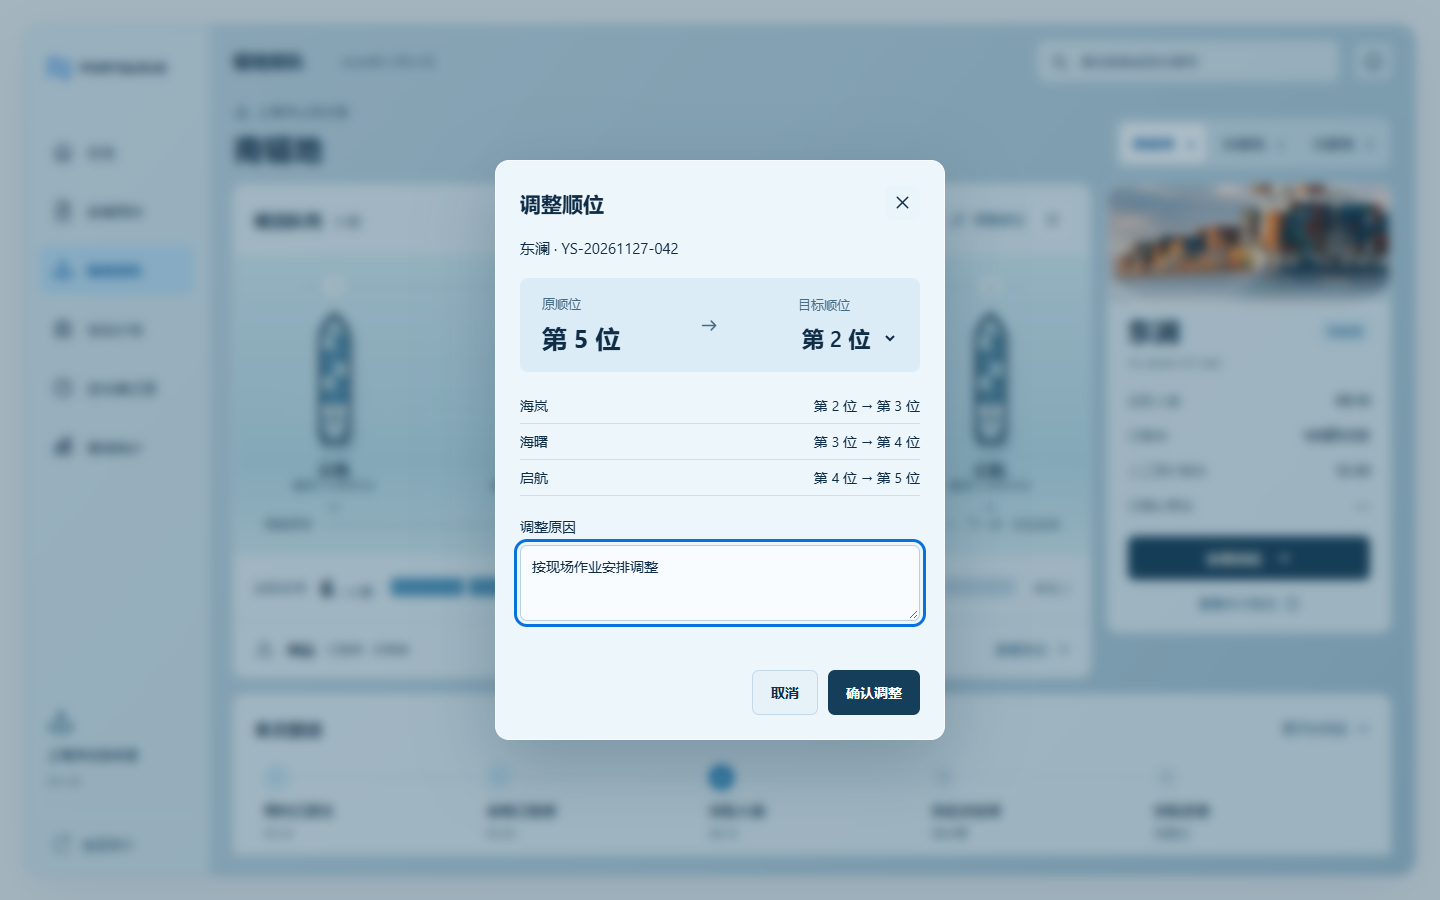
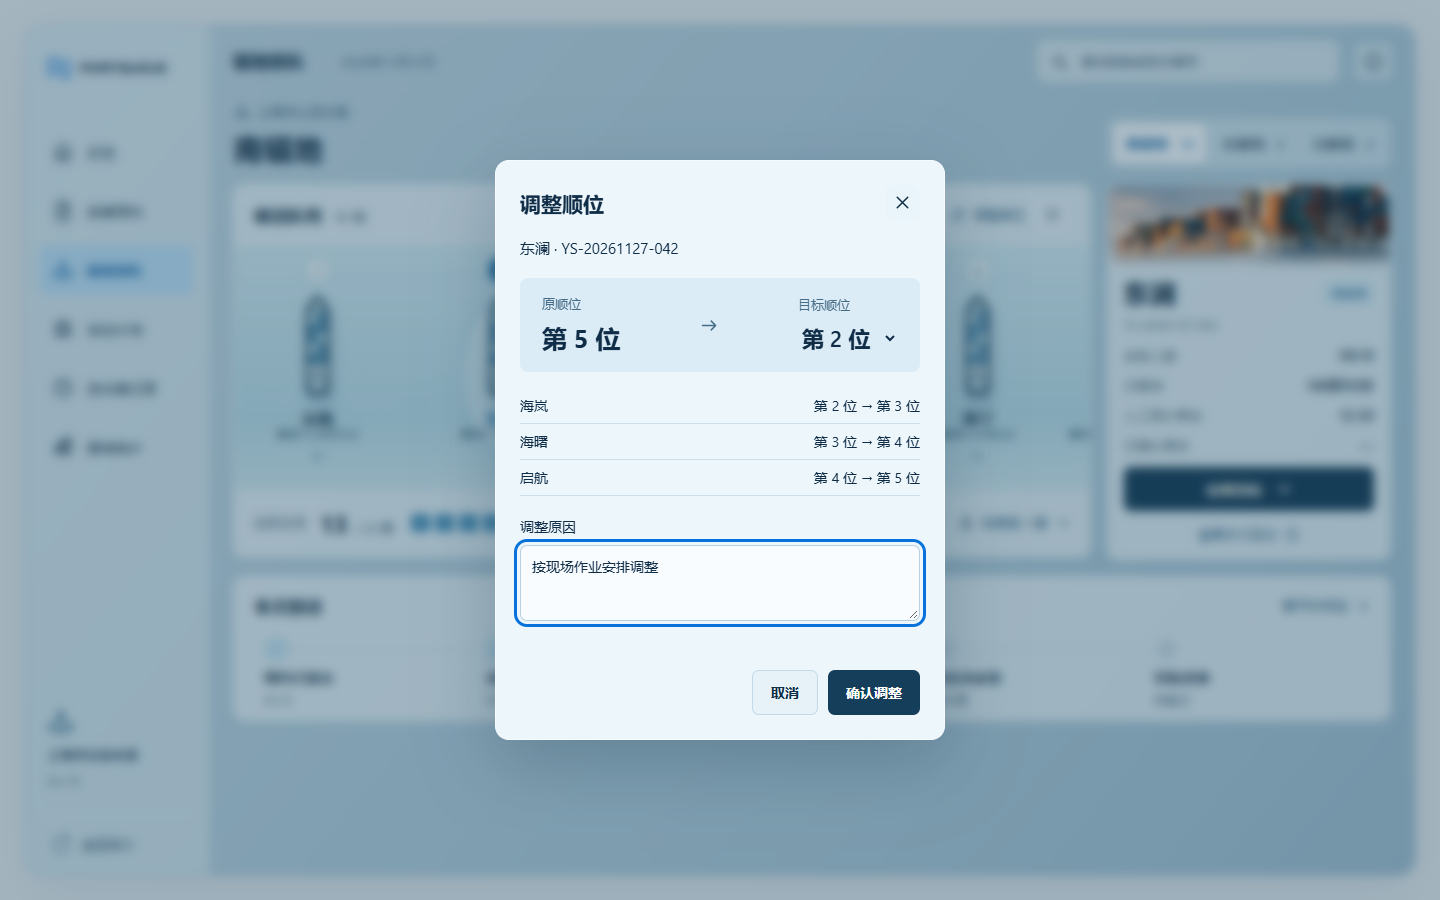
修正锚地原型完整队列与短屏布局并明确第四阶段验收

diff --git a/docs/design/anchorage-prototype/prototype.js b/docs/design/anchorage-prototype/prototype.js
@@ -35,11 +35,15 @@ const ships = [
   { id: 'haichen', name: '海辰', call: 'YS-20261127-035', enter: '05:45', estimate: '', confirmed: '', status: '已撤销', hue: '#7c9aac' },
   { id: 'xingzhou', name: '星舟', call: 'YS-20261127-044', enter: '09:00', estimate: '14:00', confirmed: '', status: '待安排', hue: '#3e819d' },
   { id: 'haiyue', name: '海岳', call: 'YS-20261127-046', enter: '09:20', estimate: '15:00', confirmed: '', status: '待安排', hue: '#2a648e' },
+  ...['海宁','明航','嘉远','舟桥','润泽','海丰','启辰','海川','景航','顺达','辰海','承远','宁港','华星','东航'].map((name,index) => ({
+    id:`extra-${index}`,name,call:`YS-20261127-${50+index}`,enter:`0${7+Math.floor(index/8)}:${String(index%8*7).padStart(2,'0')}`,
+    estimate: index%3===0 ? '15:30' : '',confirmed:'',status:'待安排',hue:'#3b7da9',
+  })),
 ];
 const initialAreas = {
-  south: { name: '南锚地', capacity: 8, order: ['yuanfan','hailan','haishu','qihang','donglan'], cancelled: ['haichen'] },
-  east: { name: '东锚地', capacity: 6, order: ['xingzhou','haiyue'], cancelled: [] },
-  north: { name: '北锚地', capacity: 6, order: [], cancelled: [] },
+  south: { name: '南锚地', capacity: 20, order: ['yuanfan','hailan','haishu','qihang','donglan',...Array.from({length:7},(_,i)=>`extra-${i}`)], cancelled: ['haichen'] },
+  east: { name: '东锚地', capacity: 12, order: ['xingzhou','haiyue',...Array.from({length:4},(_,i)=>`extra-${i+7}`)], cancelled: [] },
+  north: { name: '北锚地', capacity: 8, order: Array.from({length:4},(_,i)=>`extra-${i+11}`), cancelled: [] },
 };
 let areas = structuredClone(initialAreas);
 let areaKey = 'south';
@@ -70,6 +74,7 @@ function reposition(order, id, destination) {
 }
 function renderQueue() {
   const members = area().order;
+  $('queue-vessels').style.setProperty('--slots', Math.max(5,members.length));
   $('queue-vessels').innerHTML = members.map((id, index) => {
     const ship = shipById(id);
     return `<div class="vessel${id === selectedId ? ' selected' : ''}" data-id="${id}" role="listitem" style="--slot:${index}"><span class="rank">${index+1}</span><button class="vessel-select" data-select="${id}" aria-label="选择${ship.name}，第${index+1}位"><span>${boatArt(ship)}</span><strong class="ship-name">${ship.name}</strong><span class="ship-wait">等待 ${waiting(ship)}</span></button><button class="drag-handle" data-drag="${id}" aria-label="调整${ship.name}顺位" title="拖动调整顺位，也可按回车选择位置">${icon('grip')}</button></div>`;
@@ -77,24 +82,23 @@ function renderQueue() {
   $('queue-count').textContent = `${members.length} 艘`;
   $('empty-state').hidden = members.length > 0;
   document.querySelector('.queue-path').hidden = !members.length;
-  document.querySelector('.sea-caption').hidden = !members.length;
   const presence = members.length + area().cancelled.length;
   $('presence').innerHTML = `${presence} <small>/ ${area().capacity} 艘</small>`;
   $('available').textContent = `余位 ${area().capacity-presence}`;
   $('capacity-bars').innerHTML = Array.from({length: area().capacity}, (_, index) => `<i class="${index < presence ? 'filled' : ''}"></i>`).join('');
   $('cancelled-row').hidden = !area().cancelled.length;
   $('anchorage-title').textContent = area().name;
-  document.querySelectorAll('[data-area]').forEach(button => button.setAttribute('aria-pressed', String(button.dataset.area === areaKey)));
+  document.querySelectorAll('[data-area]').forEach(button => { button.setAttribute('aria-pressed', String(button.dataset.area === areaKey)); button.querySelector('span').textContent = areas[button.dataset.area].order.length + areas[button.dataset.area].cancelled.length; });
   updateSelection();
   updateSearch();
   keepSelectedVisible();
 }
 function keepSelectedVisible() {
-  if (innerWidth > 760) { $('sea').scrollLeft = 0; return; }
   const element = document.querySelector(`.vessel[data-id="${selectedId}"]`);
   if (!element) return;
   const center = element.offsetLeft + element.offsetWidth / 2;
-  $('sea').scrollLeft = Math.max(0, center - $('sea').clientWidth / 2 + 12);
+  if (element.offsetLeft < $('sea').scrollLeft || element.offsetLeft + element.offsetWidth > $('sea').scrollLeft + $('sea').clientWidth)
+    $('sea').scrollLeft = Math.max(0, center - $('sea').clientWidth / 2 + 12);
 }
 function stepsFor(ship) {
   const cancelled = ship.status === '已撤销';
@@ -175,8 +179,8 @@ function positionDraggedShip() {
   const dy = drag.clientY-drag.startY;
   drag.element.style.transform = `translate(${dx}px,${Math.max(-20,Math.min(22,dy))}px)`;
   const bounds = $('queue-vessels').getBoundingClientRect();
-  // 每条船仍占20%的画布，东锚地少船时保留舒适的间隔。
-  const target = Math.max(0, Math.min(area().order.length-1, Math.floor((drag.clientX-bounds.left)/(bounds.width*.2))));
+  // 船宽来自完整队列长度；五格只用于少船时留白，不限制成员数量。
+  const target = Math.max(0, Math.min(area().order.length-1, Math.floor((drag.clientX-bounds.left)/(bounds.width/Math.max(5,area().order.length)))));
   previewOrder = reposition(area().order, drag.id, target);
   renderPositions();
 }
@@ -300,7 +304,7 @@ document.querySelectorAll('[data-area]').forEach(button => button.addEventListen
   $('feedback').textContent = '';
   renderQueue();
 }));
-$('cancelled-detail').addEventListener('click',() => { selectedId = 'haichen'; updateSelection(); openVisit(3); });
+$('cancelled-row').addEventListener('click',() => { selectedId = 'haichen'; updateSelection(); openVisit(3); });
 $('visit-button').addEventListener('click',() => openVisit());
 $('journey-expand').addEventListener('click',() => openVisit());
 $('journey').addEventListener('click',event => { const step = event.target.closest('[data-step]'); if (step) openVisit(Number(step.dataset.step)); });

diff --git a/docs/design/anchorage-prototype/prototype.css b/docs/design/anchorage-prototype/prototype.css
@@ -443,7 +443,8 @@ main {
   position:relative;
   background:linear-gradient(180deg,#cee8f3 0%,#b7dbe9 70%,#cce6f0);
   height:300px;
-  overflow:hidden;
+  overflow-x:auto;
+  overflow-y:hidden;
   border-top:1px solid #fbfeff9c;
   border-bottom:1px solid #a8cbdf77
 }
@@ -484,15 +485,16 @@ main {
 
 .queue-vessels {
   position:absolute;
-  inset:0 18px
+  inset:0 auto 0 18px;
+  width:max(calc(100% - 36px),calc(var(--slots,5) * 132px))
 }
 
 .vessel {
   position:absolute;
   top:18px;
-  width:20%;
+  width:calc(100% / var(--slots,5));
   height:auto;
-  left:calc(var(--slot) * 20%);
+  left:calc(var(--slot) * 100% / var(--slots,5));
   display:flex;
   align-items:center;
   flex-direction:column;
@@ -734,6 +736,8 @@ main {
   white-space:nowrap
 }
 
+#cancelled-row { white-space:nowrap; flex:none; }
+
 .cancelled-row {
   display:flex;
   align-items:center;
@@ -915,6 +919,7 @@ main {
   font-size:13px;
   color:#165783
 }
+
 
 /* 拖放后的确认与到访时间线使用原生dialog，保证焦点和窄屏滚动。 */
 dialog {
@@ -1385,13 +1390,13 @@ textarea {
   .queue-vessels {
     left:12px;
     right:auto;
-    width:max(580px,calc(100% - 24px));
+    width:max(calc(var(--slots,5) * 116px),calc(100% - 24px));
     height:280px
   }
 
   .vessel {
     top:18px;
-    width:20%;
+    width:calc(100% / var(--slots,5));
     height:246px
   }
 
@@ -1535,6 +1540,11 @@ textarea {
     display:none
   }
 
+  .occupancy { flex-wrap:wrap; }
+  .occupancy .capacity-bars { order:3; flex-basis:100%; }
+  .occupancy #available { display:none; }
+  #cancelled-row { margin-left:auto; }
+
 }
 
 @media(prefers-reduced-motion:reduce) {
@@ -1544,4 +1554,18 @@ textarea {
     scroll-behavior:auto!important
   }
 
+}
+
+/* 高度规则置于宽屏规则之后：宽屏短窗口同样需容纳完整时间线。 */
+@media (min-width:761px) and (max-height:950px) {
+  .sea { height:245px; }
+  .boat-art { height:110px; }
+  .vessel { top:12px; }
+  .scene-image { height:85px; }
+  .visit-facts { gap:10px; margin:12px 0; }
+  .visit-content { padding:5px 16px 8px; }
+  .panel-toolbar { padding-top:12px; padding-bottom:12px; }
+  .journey { padding-bottom:12px; }
+  .journey-node .node-dot { margin-bottom:6px; }
+  .inline-feedback:empty { display:none; }
 }

diff --git a/docs/design/anchorage-prototype/index.html b/docs/design/anchorage-prototype/index.html
@@ -54,10 +54,8 @@
               <div class="queue-path" aria-hidden="true"></div>
               <div class="queue-vessels" id="queue-vessels" role="list" aria-label="按顺位排列的船舶"></div>
               <div class="empty-state" id="empty-state" hidden><span data-icon="anchor"></span><h3>当前没有候泊船舶</h3><p>选择其他锚地查看在场情况</p></div>
-              <div class="sea-caption"><span>调度顺序</span><span class="line-arrow" aria-hidden="true"></span><span>下一步 · 泊位安排</span></div>
             </div>
-            <div class="occupancy"><div><span>实际在场</span><strong id="presence">6 <small>/ 8 艘</small></strong></div><div class="capacity-bars" id="capacity-bars" aria-hidden="true"></div><span id="available">余位 2</span></div>
-            <div class="cancelled-row" id="cancelled-row"><span class="muted-ship" data-icon="ship"></span><strong>海辰</strong><span>已撤销 · 待离锚</span><button class="text-button" id="cancelled-detail">查看到访 <span data-icon="arrow"></span></button></div>
+            <div class="occupancy"><div><span>实际在场</span><strong id="presence"></strong></div><div class="capacity-bars" id="capacity-bars" aria-hidden="true"></div><span id="available"></span><button class="text-button" id="cancelled-row"><span data-icon="ship"></span>待离锚 1 艘 <span data-icon="arrow"></span></button></div>
           </section>
 
           <aside class="visit-panel glass" aria-labelledby="selected-name">

diff --git a/docs/stages/stage-4a-anchorage.md b/docs/stages/stage-4a-anchorage.md
@@ -1,6 +1,6 @@
 # 4A　锚地排队业务设计
 
-2026-11-27 · 4A重做交付，视觉待用户审阅。以[可操作原型](../design/anchorage-prototype/index.html)替换旧静态草图：调度员选择锚地和到访，抓取船舶预览顺移，填写原因后确认或取消，再展开本次到访时间线。沿用TIDELINE参考的冰蓝磨砂、左侧导航、紧凑工具区、深蓝操作和场景图；队列承担主任务，详情与时间线随选择更新。
+2026-11-27 · 4A视觉已获用户认可，短屏和完整队列已修订。以[可操作原型](../design/anchorage-prototype/index.html)替换旧静态草图：调度员选择锚地和到访，抓取船舶预览顺移，填写原因后确认或取消，再展开本次到访时间线。沿用TIDELINE参考的冰蓝磨砂、左侧导航、紧凑工具区、深蓝操作和场景图；队列承担主任务，详情与时间线随选择更新。
 
 本轮只做交互设计。原型采用固定合成样例，观察时刻为2026-11-27 10:00（北京时间）；调整只保存在当前页面内存，刷新或重置后恢复。正式Vue页面、API和SQL均未改动，入离锚登记、真实授权、事务保存及跨页办理分别留给4B—4D与后续批次。下列业务契约仍以正式功能报告的“锚地排队管理”、[业务视图](../../database/02_views.sql)和[现有事务过程](../../database/04_procedures.sql)为依据。
 
@@ -10,7 +10,7 @@
 
 ### 看队列与选到访
 
-南锚地容量8艘，在场6艘，有效队列5艘，另有海辰预约已撤销、仍在场，单列在容量区下方。默认选中第五位的东澜，08:10实际入锚，等待1小时50分。船形位置只表达调度顺位，不表示地理位置或AIS船位；详情分别列人工预计与已确认靠泊，底部时间线可逐项展开。原型搜索突出匹配船舶，回车选择到访，始终保留完整队列和原顺位；东锚地提供两船场景，北锚地提供空队列场景。
+南锚地容量20艘，在场13艘，有效队列12艘，另有海辰预约已撤销、仍在场，从容量区“待离锚”按钮展开。默认选中第五位的东澜，08:10实际入锚，等待1小时50分。船形位置只表达调度顺位，不表示地理位置或AIS船位；详情分别列人工预计与已确认靠泊，底部时间线可逐项展开。原型搜索突出匹配船舶，回车选择到访，始终保留完整队列和原顺位；东锚地6艘、北锚地4艘，容量分别为12和8；空队列由专用测试样例覆盖。完整队列横向浏览，不限制为五艘。
 
 桌面将水面队列与详情并列，下方放到访时间线；390px窄屏改为纵向排列，队列可横向滚动。船舶使用至少44px触摸把手，拖至画布边缘48px范围时自动滚动，可从第5位到达屏外第1位；放下、取消或失去指针后停止滚动。松手打开可滚动确认框，也可直接用“调整顺位”及键盘选择目标。动态反馈可暂停，并尊重减少动态效果偏好。
 
@@ -53,7 +53,7 @@
 |---|---|---|---|
 | Q1 | 空锚地、单船、容量未知、0容量 | 0与未知分别呈现，单船无需调序，零容量拒绝入锚 | 4B/4C |
 | Q2 | 同船两次到访，一次到访有两段停留，点搜索结果并返回 | 选中正确停留，历史分段等待正确，原清单仍可浏览 | 4B |
-| Q3 | 原型的5条有效记录与1条撤销在场记录 | 在场6、有效5。撤销船离锚后在场5、有效5 | 4B/4C |
+| Q3 | 原型的12条有效记录与1条撤销在场记录 | 在场13、有效12。撤销船离锚后在场12、有效12 | 4B/4C |
 | Q4 | 满容量、未批准、重复入锚，或离锚早于入锚、停留ID过时 | 拒绝对应写入，队列、事件、分类关联及审计均无部分写入 | 4C |
 | Q5 | 人工预计12:30，随后确认13:00靠泊 | 两个时间及来源分别可读。计划修订后人工值保留，历史来源待核值可回查 | 4C及计划回归 |
 | Q6 | 在完整队列执行5→2，分别测试确认、原位和取消 | 确认仅影响第2—5位，原因和四条前后值可核对。原位、取消无写入 | 4D |
@@ -80,3 +80,5 @@
 Edge已验证1440×900、1366×768、1920×1080和390×844，无页面横向溢出；保存了桌面、窄屏、拖动中与确认态截图。交互覆盖桌面5→2及其余三艘顺移、确认、Esc取消、键盘调序、空原因阻止提交、搜索选中但不筛队列、时间线展开、切换锚地、空队列与重置、减少动态效果。窄屏另以CDP触摸事件验证5→屏外1、其余四艘顺移、取消恢复和滚动终止，检查中JavaScript页面错误为0。
 
 独立review结论为可交付（ship）；原先窄屏屏外落点不可达的问题已修复并复核，桌面拖动不会误滚画布。以上为原型浏览器验证，视觉仍待用户审阅。未执行实体触摸设备、对比度专项及正式SQL/HTTP/角色联调；机械检测器因解析依赖缺失降级，不能计为全量通过。4B仍是下一批：先实现真实队列与所选到访的只读查询。
+
+2026-11-27补充：用户已确认视觉方向；短屏、全量队列与撤销在场按钮修订后，原型四视口及拖动复验通过。正式接入结果见[4B—4D执行记录](stage-4-implementation.md)，以上旧轮次结果仅作为历史记录。

diff --git a/docs/stages/stage-4-implementation.md b/docs/stages/stage-4-implementation.md
@@ -1,0 +1,37 @@
+# 阶段4：锚地业务实施与验收
+
+2026-11-27。用户已认可4A船形队列、详情和时间线，授权连续完成4B—4D，每批独立验收和提交。业务口径沿用[4A设计](stage-4a-anchorage.md)。
+
+## 4B 真实队列与到访
+
+- 修复固定五格：完整队列按可读船宽横向布局，长队列可滚动、定位、跨屏拖动；不能按每个锚地五艘截断。
+- 修复短窗口：工作区高度随可用高度调整；撤销仍在场作为容量区可展开的明细，时间线及其时间完整可达。窄屏顺序排布，按内容自然滚动。
+- 新增登录后只读接口：`GET /api/anchorages`、`GET /api/anchorages/{id}/queue`、`GET /api/anchorage-stays/{id}`。预约到队列定位由查询的appointmentId完成。
+- 三视图保持不变；队列及在场来自事件事实，空设施仍返回。数据库BIGINT以字符串输出，时间带UTC时区，界面按北京时间。
+- 详情展示同一到访的申请、审核、锚地事实及已确认计划。历史预计来源不明时明确区分，不能冒充人工预计。
+- 正式Vue工作区接入共用外框，真实会话，导航/搜索/选择局部更新；卸载或身份变化取消请求并清除敏感结果，防止旧响应覆盖。
+- 验收：匿名401；四角色读取；空锚地、超过五艘、撤销仍在场、历史停留；应用数据库最小权限；选择不筛全队列；桌面100%缩放、短屏、用户截图比例和390px；已有总览预约回归。
+
+## 4C 入离锚与人工预计
+
+- 先部署增量SQL：独立可空人工预计字段及并发版本，保留历史estimated_berthing_at供核查；计划确认不再复制预计。仍为21表、3视图。
+- 通过事务过程登记入锚/离锚，离锚核对用户选中的停留ID，防止晚到请求关闭下一次停留；实际事实与唯一分类关联原子提交。
+- ADMIN/DISPATCHER/RECORDER可登记实际，ADMIN/DISPATCHER可维护人工预计；服务端和SQL均重验角色，操作者来自会话，写接口校验防伪令牌。
+- 已批准且未在场的预约作为入锚候选；设施停用不接受新入锚但允许离锚。校验容量、时间、预约状态、重复、既有进港及历史停留。
+- 操作完成只刷新相关队列、详情、总览；写成功但刷新失败单独提示。结果不明时先核对，不自动重试写入。
+- 验收：入锚→在场增加→预计→离锚→容量释放；满容量、重复、越权、未来实际时间、时序倒置、过时停留拒绝且无部分写入；停留、事件、分类和审计逐项核对。
+
+## 4D 调序与阶段收口
+
+- 鼠标/触摸拖动与“移至第几位”共用确认窗口和一个写接口；预览不落库，列出受影响船舶，原因必填。
+- 事务锁内校验完整队列快照（成员ID、顺位、状态）、操作者及目标；过期拒绝并返回可重读提示。一次更新顺移成员及调整明细、审计。
+- 冲突后保留原因并读取最新队列；取消、Esc、指针取消、账号切换、离页清除预览。长队列边缘滚动，键盘等价。
+- 验收：第5→2、末位→首位、首位→末位、原位不写、取消不写；两客户端调序/离锚冲突；拖动和表单同结果、同权限、同审计；实际人数不因调序变化。
+
+## 数据与执行记录
+
+样例由可重复的独立SQL脚本建立，使用可识别业务编号，重跑不重置已有操作；数据库约束与事务仍参与生成。覆盖多个锚地及不同负载，至少一个锚地超过五艘；空锚地仍作为测试用例。合成资料不冒充真实港口在场数据。
+
+最终答辩前按整套系统验收计划整理一条完整到访及异常分支，检查船舶/到访/预约标识、UTC与北京时间、申请审核计划实际先后、容量、顺位、角色和审计一致；不得为截图直接改状态或删除历史。
+
+每批运行相关.NET测试、前端构建、SQL语法检查和浏览器任务，review记录到`docs/reviews/`。临时服务记录PID并在交付前停止；保留用户已有服务。只提交本批文件，不提交中期材料。
